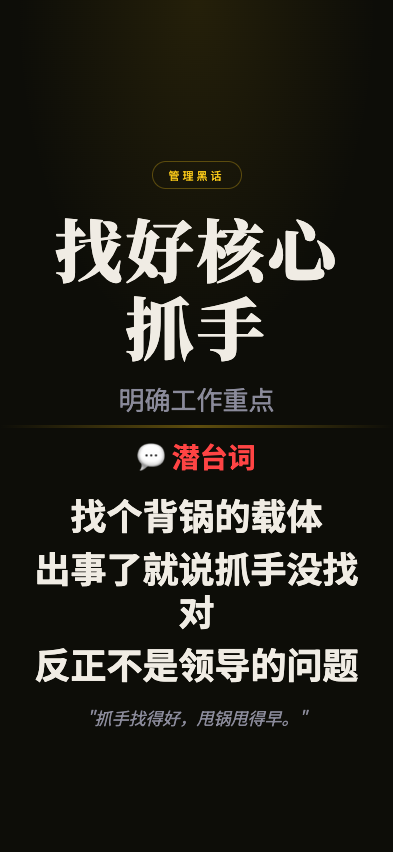
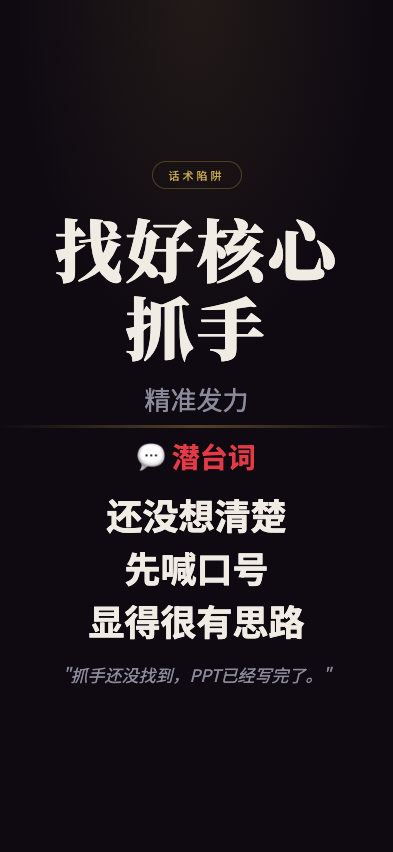
feat: 职场生存法则 screenshot - zhaohaohexinzhuashou

diff --git a/wuliao-tools/tools/biz-speak/scenes/zhaohaohexinzhuashou.html b/wuliao-tools/tools/biz-speak/scenes/zhaohaohexinzhuashou.html
@@ -7,11 +7,11 @@
 <link href="https://fonts.googleapis.com/css2?family=Noto+Serif+SC:wght@400;700;900&family=Noto+Sans+SC:wght@300;400;700&display=swap" rel="stylesheet">
 <style>
   :root {
-    --bg: #0d0d08;
+    --bg: #0f0a12;
     --text: #f0ece4;
     --text-dim: #8a8a9a;
-    --gold: #f5c518;
-    --red: #ff4444;
+    --gold: #c9a84c;
+    --red: #e63946;
   }
   * { margin:0; padding:0; box-sizing:border-box; }
   html, body { width:100%; height:100%; overflow:hidden; }
@@ -24,11 +24,11 @@
   }
   body::before {
     content:''; position:absolute; top:0; left:0; right:0; height:45%;
-    background:radial-gradient(ellipse at 50% 0%, rgba(245,197,24,0.1) 0%, transparent 65%);
+    background:radial-gradient(ellipse at 50% 0%, rgba(201,168,76,0.1) 0%, transparent 65%);
     pointer-events:none; z-index:0;
   }
   .top { flex:1; display:flex; flex-direction:column; align-items:center; justify-content:flex-end; padding:4px 28px 8px; position:relative; z-index:1; }
-  .tag { font-size:11px; letter-spacing:3px; color:var(--gold); border:1px solid rgba(245,197,24,0.3); padding:5px 16px; border-radius:50px; margin-bottom:20px; }
+  .tag { font-size:11px; letter-spacing:3px; color:var(--gold); border:1px solid rgba(201,168,76,0.3); padding:5px 16px; border-radius:50px; margin-bottom:20px; }
   .main-title { font-family:'Noto Serif SC'; font-size:68px; font-weight:900; text-align:center; line-height:1.15; letter-spacing:3px; min-width:0; overflow-wrap:break-word; max-width:92%; }
   .sub-title { font-size:26px; color:var(--text-dim); text-align:center; margin-top:14px; }
   .divider { width:100%; height:3px; background:linear-gradient(90deg,transparent,var(--gold),transparent); opacity:0.35; flex-shrink:0; position:relative; z-index:1; }
@@ -41,19 +41,19 @@
 </head>
 <body>
   <div class="top">
-    <div class="tag">管理黑话</div>
+    <div class="tag">话术陷阱</div>
     <div class="main-title">找好核心抓手</div>
-    <div class="sub-title">明确工作重点</div>
+    <div class="sub-title">精准发力</div>
   </div>
   <div class="divider"></div>
   <div class="bottom">
     <div class="truth-label">💬 潜台词</div>
     <div class="truth-lines">
-      <div class="truth-line">找个背锅的载体</div>
-      <div class="truth-line">出事了就说抓手没找对</div>
-      <div class="truth-line">反正不是领导的问题</div>
+      <div class="truth-line">还没想清楚</div>
+      <div class="truth-line">先喊口号</div>
+      <div class="truth-line">显得很有思路</div>
     </div>
-    <div class="quote">"抓手找得好，甩锅甩得早。"</div>
+    <div class="quote">"抓手还没找到，PPT已经写完了。"</div>
   </div>
 </body>
 </html>
